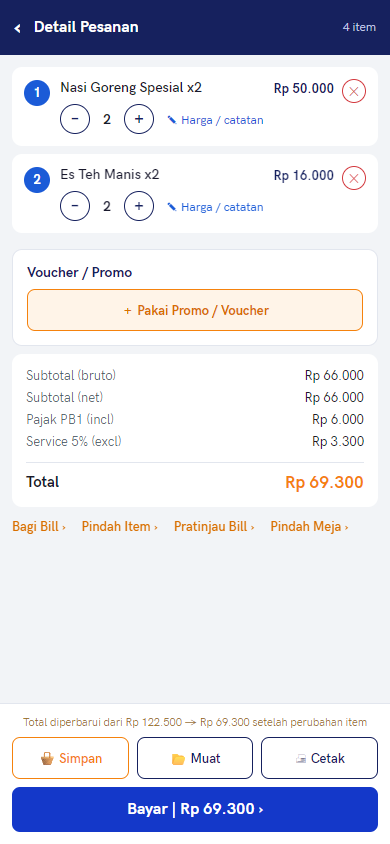
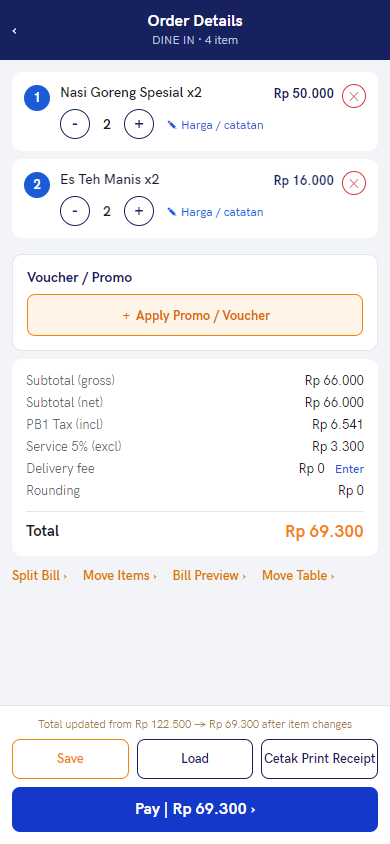
docs: visual batch-5 - 10 PNG segar 5 layar + T5 terverifikasi
Hint QR tampil (alarm tablet-ID = PNG basi). Nol kunci mentah.
Backlog visual dicatat di AUDIT-1V1.md.

diff --git a/docs/AUDIT-1V1.md b/docs/AUDIT-1V1.md
@@ -50,7 +50,7 @@ Detail gap per file ada di output workflow; ringkasan jadi TODO bernomor di bawa
 |---|---|---|
 | Dashboard + Drawer + ScreenHeader + guard | DONE / PARTIAL (navbar 2 pola, guard T1) | T12 H-1; logout tanpa reset stack; titik shift selalu hijau; Cashier header kustom (S3 by-design) |
 | Kasir & order | PARTIAL | ✅ Pajak tampil PPN 11/111 + rounding step 100 + baris Rounding di Cashier/CartDetail/DineIn (2026-10-16, tsc hijau); ✅ CustomMenu saveNotes ke item benar + tipe CustomMenu dilebarkan; ✅ SplitBill reaporsi proporsional + oper items/mode/table ke Pay. ✅ HOLD worker SELESAI 2026-10-16: refactor totals+SQLite hijau (`tsc` EXIT:0); konten batch-4 saya terverifikasi selamat semua (marker `bill_qr_after_pay/bok_open_hint/bok_empty/cart_restore/promo_remove/tmr_sub/guestFallback/searchMenu/customer-tamu` utuh) + `Rounding` Cashier ikut `t()`; batch-4 tercommit (`f69662e`). SISA: LoadOrder seed; salesNum bukan TRX-YYYYMMDD-NNN; master.ts 6 domain vs kontrak 11+ grup (file milik worker lain — JANGAN SENTUH) |
-| Pembayaran (Pay/Qris/Edc/Success/Receipt/BillPreview/Cancel) | PARTIAL (T8 ✅, T5 decided) | ✅ Batch-2 2026-10-16: method mentah per-split (bank tak hilang); transfer wajib referensi; approvalCode EDC → Success/Receipt; Success ringkasan mini + cetak langsung; BillPreview tanpa hardcode + teruskan konteks; Receipt baris voucher/approval/terminal + footer cabang + key kamus `xp_ref_*`/`ok_*`/`rc_voucher|approval|terminal`. ✅ Batch-4 T5: TIDAK ada aksi Cetak-QR pra-bayar di BillPreview — diputus tambah teks jujur `bill_qr_after_pay` ("QR struk tercetak setelah pembayaran"); CartDetail/Cashier punya tombol print→Receipt pra-bayar yang ambigu — keputusan produk: gate QR di Receipt (file worker) atau biarkan. SISA: QR dekoratif (butuh merchant ID BE); poll lokal; bank/terminal hardcode; ULTRA10 persen vs Cashier flat; mock display BillPreview (TRX-047/ESB CABANG PORIS/021-5566) butuh profil merchant BE; Pay `?? 266000` + MEMBER_DEPOSIT_DB/CARDS/DRAWERS mock butuh master BE; ✅ tanggal Pay DAYS/MONTHS ikut bahasa (2026-10-16) |
+| Pembayaran (Pay/Qris/Edc/Success/Receipt/BillPreview/Cancel) | PARTIAL (T8 ✅, T5 decided) | ✅ Batch-2 2026-10-16: method mentah per-split (bank tak hilang); transfer wajib referensi; approvalCode EDC → Success/Receipt; Success ringkasan mini + cetak langsung; BillPreview tanpa hardcode + teruskan konteks; Receipt baris voucher/approval/terminal + footer cabang + key kamus `xp_ref_*`/`ok_*`/`rc_voucher|approval|terminal`. ✅ Batch-4 T5: TIDAK ada aksi Cetak-QR pra-bayar di BillPreview — diputus tambah teks jujur `bill_qr_after_pay` ("QR struk tercetak setelah pembayaran"); ✅ terverifikasi visual 2026-10-16 (10/10 PNG baru phone+tablet: hint tampil; alarm "hilang di tablet-ID" terbukti PNG basi — shot segar tampilkan hint; NOL kunci mentah bocor). CartDetail/Cashier punya tombol print→Receipt pra-bayar yang ambigu — keputusan produk: gate QR di Receipt (file worker) atau biarkan. SISA: QR dekoratif (butuh merchant ID BE); poll lokal; bank/terminal hardcode; ULTRA10 persen vs Cashier flat; mock display BillPreview (TRX-047/ESB CABANG PORIS/021-5566) butuh profil merchant BE; Pay `?? 266000` + MEMBER_DEPOSIT_DB/CARDS/DRAWERS mock butuh master BE; ✅ tanggal Pay DAYS/MONTHS ikut bahasa (2026-10-16) |
 | Shift/kas (Attendance/Shift/Recap/EndShift) | PARTIAL (milik worker lain - JANGAN SENTUH) | PIN absensi max 4 vs 6; state absensi tak pulih; PIN buka-shift tak verifikasi; tanpa proteksi shift-ganda; promo rekap statis (T6); tanpa cetak shift + FailedPrintLog; fallback kas EndShift cacat saat nol tunai; tr_shiftlogdetail tak terpakai; attempt-limit (T11) |
 | Meja & booking | PARTIAL | ✅ Batch-2: format kanonis A1-A4/B1-B3/C1-C2 + section di Move/DineIn/Booking/Timer; Booking edit + hapus + oper konteks ke Cashier; timer tick 10 dtk live + autoExtend nyata. ✅ Batch-3+: Cashier terima `customer`/`tamu` dari Booking (nama prefill + "(N tamu)" di kolom info, terus ke CartDetail). SISA: TablesScreen kanonis milik worker (rujukan read-only); denah live ms_table (butuh pull BE) |
 | Member/Voucher/Topup | PARTIAL | ✅ Batch-2: nominal topup benar; guard offline voucher + banner; MIN_TOPUP 10000; prefix Rp via rp(). ✅ Batch-3: tipe Member dilebarkan (`memberId/saldoBaru/topupNominal`, dua-arah terverifikasi). SISA: endpoint voucherBurn/deposit-topup di `server.ts` (milik worker); ULTRA10 persen vs Cashier flat; pesan min_topup pakai ulang key |
@@ -70,6 +70,14 @@ konten saya selamat (pin cabang, spinner, FauxQr utuh — rewrite berupa merge).
 Screenshot tamu phone 4/4 + tablet 4/4 OK (`docs/ss-clone/phone|tablet-{Intro,
 SelectBranch,Login,QrHow}.png`). Pelajaran: jangan edit file yang sedang
 disentuh worker + jangan commit file campur sebelum merge mereka.
+
+## Hasil visual batch-5 (2026-10-16, 10 PNG segar `docs/ss-clone/phone|tablet-{Cashier,CartDetail,BillPreview,Booking,TableTimer}.png`)
+
+Nol error merah/blank; Rounding tampil (tablet-Cashier Rp-20, CartDetail Rp0; phone-Cashier grid-tanpa-total by-design).
+Backlog visual (bukan blocker rilis, butuh keputusan): header ganda bertumpuk (ScreenHeader dalam-layar + header stack — domain `App.tsx` milik worker);
+tombol campur bahasa (`Cetak Print Receipt`, `Bagi Bill (Split Bill)`); locale phone-vs-tablet tak konsisten (EN vs ID layar sama —
+harness nav tanpa locale, bukan bug kode); teks Booking phone terpotong; kartu TableTimer tablet terpotong; BillPreview tanpa params
+tampil mock Rp0/TRX-047 (butuh profil merchant BE).
 
 ## Rute terdaftar (App.tsx)
 Intro, Install, SelectBranch (headerShown:false), InstallProgress, CreatePin,
